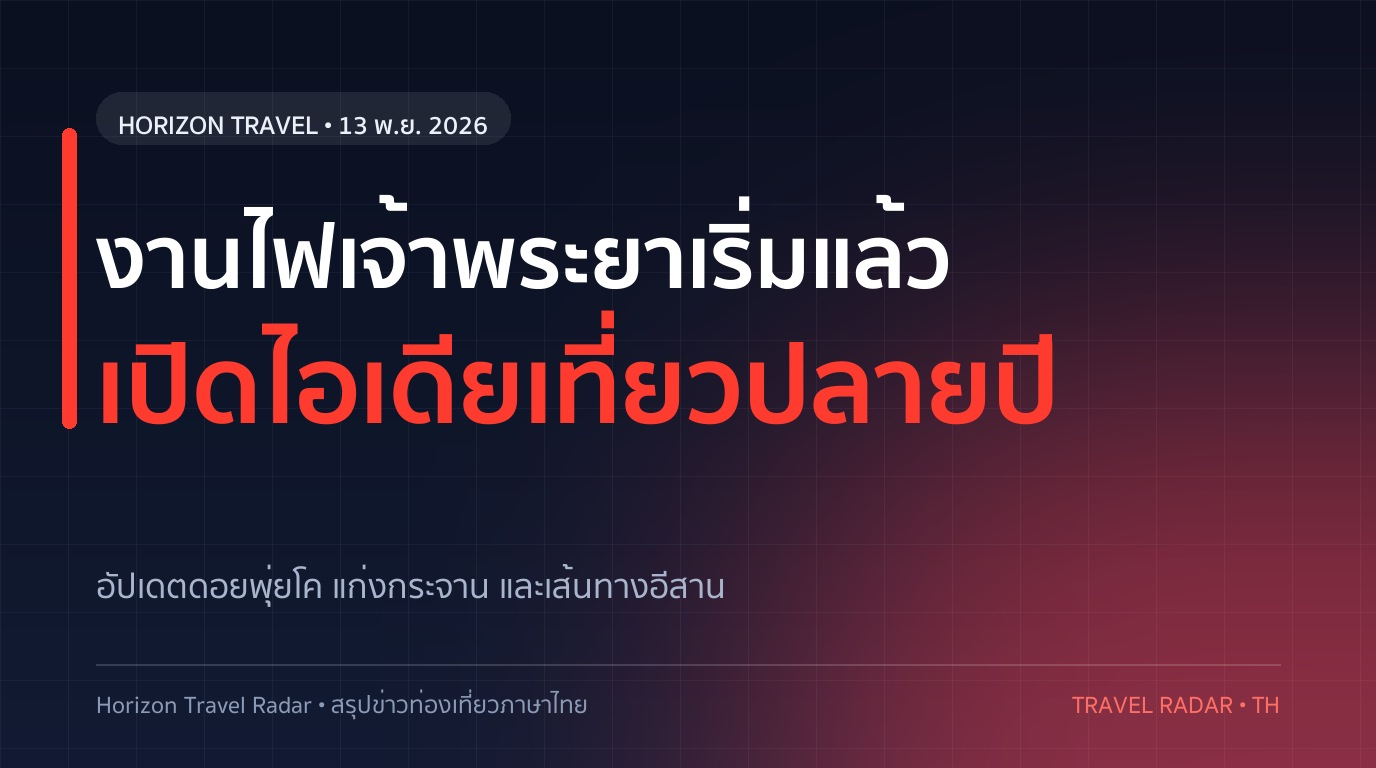
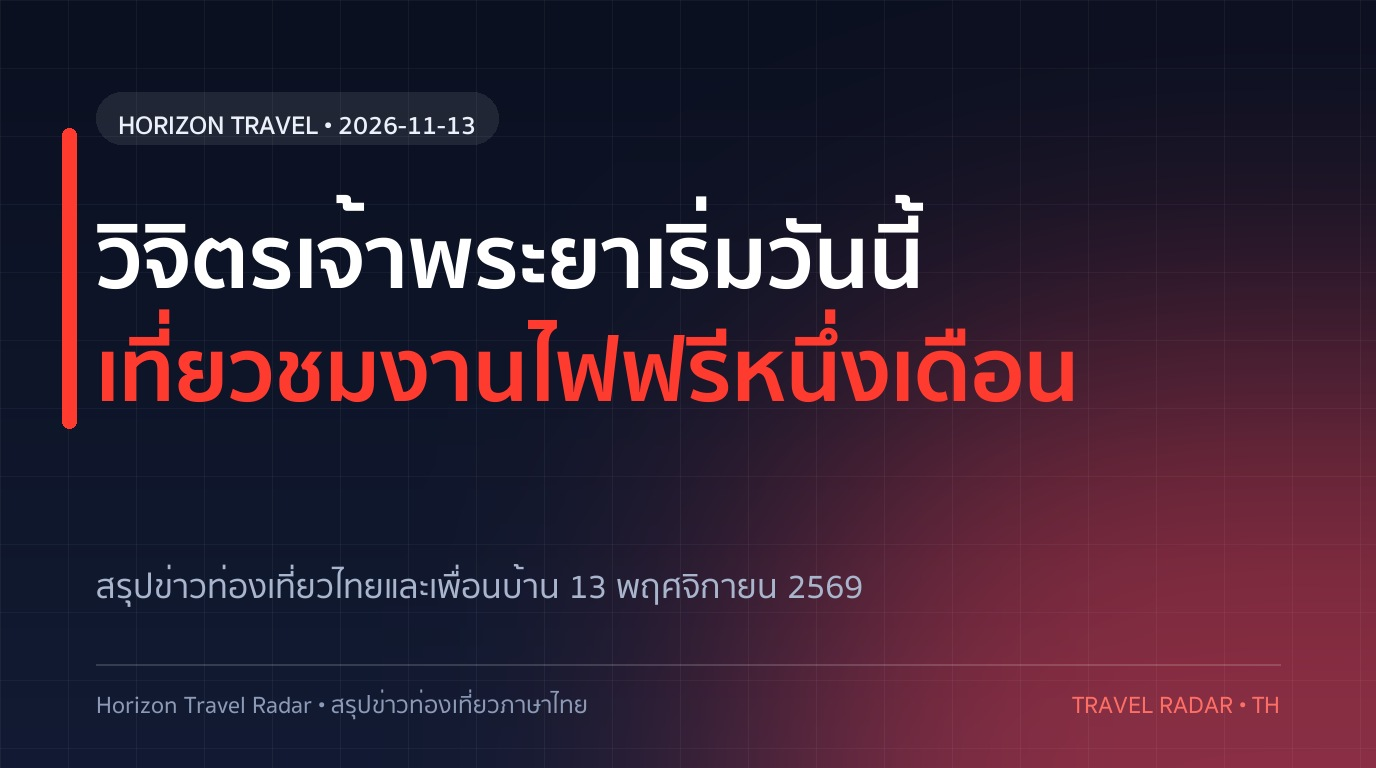
radar: 2026-11-13

diff --git a/docs/2026-11-13.html b/docs/2026-11-13.html
@@ -2,9 +2,9 @@
 <html lang="th"><head>
 <meta charset="utf-8">
 <meta name="viewport" content="width=device-width,initial-scale=1">
-<title>Horizon Daily — 2026-11-13</title>
+<title>บรีฟท่องเที่ยวประจำวันที่ 13 พฤศจิกายน 2569</title>
 <meta name="description" content="Horizon AI News Radar — สรุปข่าว AI/เทคโนโลยี/การเงิน ภาษาไทยรายวัน">
-<meta property="og:title" content="Horizon Daily — 2026-11-13">
+<meta property="og:title" content="บรีฟท่องเที่ยวประจำวันที่ 13 พฤศจิกายน 2569">
 <meta property="og:description" content="สรุปข่าว AI/Tech/Finance ภาษาไทยรายวัน">
 <meta property="og:image" content="https://tstevy3a.github.io/horizon-travel-radar/img/cover-2026-11-13.jpg">
 <link rel="stylesheet" href="assets/style.css">
@@ -13,49 +13,59 @@
   <a href="index.html" style="color:#fff;font-weight:700;font-size:16px">Horizon Travel Radar</a>
   <span class="badge">รายวัน</span>
 </header>
-<h1>Horizon Daily — 2026-11-13</h1>
+<h1>บรีฟท่องเที่ยวประจำวันที่ 13 พฤศจิกายน 2569</h1>
 <p class="meta">เผยแพร่ 2026-11-13</p>
 <img class="cover" src="img/cover-2026-11-13.jpg" alt="ภาพปกข่าว 2026-11-13">
-<article><p>🇹🇭 ไทยและเพื่อนบ้าน</p>
-<h3>วิจิตรเจ้าพระยา 2026 เปิดงานแสงสีริมแม่น้ำ</h3>
-<p><a href="https://www.tatnews.org/2026/11/vijit-chao-phraya-2026-brings-a-month-long-spectacle-of-light-and-imagination-to-bangkoks-riverfront/">ที่มา: TAT Newsroom</a>
-- จัดวันที่ 13 พฤศจิกายน–13 ธันวาคม 2026 เข้าชมฟรี
-- มีจุดจัดแสดง 19 แห่งและงานไฟลอยน้ำ พร้อมการแสดงแสงสี โดรน พลุ และวัฒนธรรม
-ทำไมน่าสนใจ: มีช่วงเวลาจัดงานและจุดจัดแสดงชัดเจนสำหรับวางแผนเที่ยวกรุงเทพฯ ยามค่ำคืน</p>
-<h3>แม่ฮ่องสอนเปิดฤดูเที่ยวดอยพุ่ยโค</h3>
-<p><a href="https://news.google.com/rss/articles/CBMiU0FVX3lxTE9xWWVNSWFLTmhRMjFXa0YzdU9feWRWTk5XZkJLQ2gwVVdBMlNyaEZMaXJKY1B5R3RuM09iNnhjZ2ozemppWWltWENEd1hiNTRteGs4?oc=5">ที่มา: เดลินิวส์</a>
-- ผู้ว่าฯ แม่ฮ่องสอนเปิดฤดูกาลท่องเที่ยวดอยพุ่ยโค
-- จุดเด่นที่ประชาสัมพันธ์คือทะเลหมอก 360 องศา
-ทำไมน่าสนใจ: เป็นอีกจุดหมายสำหรับผู้กำลังหาไอเดียเที่ยวทะเลหมอก</p>
-<h3>แก่งกระจานเตรียมจัดเทศกาลกินปลา พาเที่ยว</h3>
-<p><a href="https://news.google.com/rss/articles/CBMiU0FVX3lxTE9zWEw2MEl3bFRyUUw5WjROam9yVDNpYlJTZXE1SWhpZXJhVjBoOW1HZW9vNW1Zd01Yc3BNNWRTUDVtemNCZVNKdUJCZWc2VVpJRmRZ?oc=5">ที่มา: เดลินิวส์</a>
-- เพชรบุรีเตรียมจัดเทศกาล “กินปลา พาเที่ยวแก่งกระจาน” ครั้งที่ 21
-- กำหนดจัดวันที่ 4–13 ธันวาคม
-ทำไมน่าสนใจ: วันที่จัดงานช่วยให้วางทริปแก่งกระจานล่วงหน้าได้</p>
-<h3>เปิด 9 เส้นทางเที่ยวอีสาน</h3>
-<p><a href="https://news.google.com/rss/articles/CBMiaEFVX3lxTE1uOVllVkNpdHZjREpSWHU4RGRWdlRpOEpfc1JZNm9MTmFzY1hxUm04cFNPWnJWWGVYdVZucXBZazN5Z1RLX0lCdEhpMnlwYW9FdjAyc0N2U2xuUF9HbWZ0SE5uZnlTdlpG?oc=5">ที่มา: มติชนออนไลน์</a>
-- มีการเปิดตัว 9 เส้นทางท่องเที่ยวในภาคอีสาน
-- ข่าวเชื่อมเส้นทางเหล่านี้กับงานพืชสวนโลกอุดร
-ทำไมน่าสนใจ: เพิ่มตัวเลือกสำหรับผู้กำลังมองหาเส้นทางเที่ยวอีสาน</p>
-<h3>นาทมชูแหล่งเที่ยวศรัทธาและชุมชน</h3>
-<p><a href="https://news.google.com/rss/articles/CBMiWEFVX3lxTE1mNmRpdHdGVE56QWtwaWNMTGtKdm5ScHhCUkJkSDI3Y1dSWFRBUFg5WXhMUlowMmlZTnpoY0trTWE3bTZOaHJ0RlI4RjdKM1ZFME51enJsbzI?oc=5">ที่มา: บ้านเมือง</a>
-- อำเภอนาทมประชาสัมพันธ์พระพุทธมิ่งเมืองและสิมโบราณล้านช้าง
-- อีกจุดที่กล่าวถึงคือต้นมะม่วงร้อยปี
-ทำไมน่าสนใจ: เป็นไอเดียเที่ยวอำเภอที่หลายคนอาจยังไม่คุ้นชื่อ</p>
-<p>✈ สายการบิน/เส้นทาง/วีซ่า</p>
-<p>ไม่มีข่าวในหมวดนี้จากรายการที่ได้รับ</p>
-<p>🔥 ไวรัลและชุมชนนักเดินทาง</p>
-<h3>ชุมชนนักเที่ยวถาม: เดินทางข้ามเมืองในไทยอย่างไรให้คุ้มเวลาและเงิน</h3>
-<p><a href="https://www.reddit.com/r/ThailandTourism/comments/1xuy0tl/getting_around_thailand_how_do_you_avoid_wasting/">ที่มา: Reddit r/ThailandTourism</a>
-- ผู้ตั้งกระทู้ถามว่าควรเลือกบิน รถไฟข้ามคืน รถบัส หรือรถตู้เมื่อเดินทางในไทย
-- อีกคำถามคือจะเลือกเรือเฟอร์รีหรือสปีดโบตอย่างไรเมื่อเที่ยวข้ามเกาะ
-ทำไมน่าสนใจ: เป็นโจทย์วางแผนเดินทางที่นักเที่ยวอิสระต้องชั่งทั้งเวลาและค่าใช้จ่าย</p>
-<p>🧳 ฮาวทู/งบ/แพ็กของ</p>
-<h3>เตรียมเที่ยวทะเลกระบี่: จับตาการตรวจอุทยานช่วงไฮซีซัน</h3>
-<p><a href="https://news.google.com/rss/articles/CBMiZkFVX3lxTE1hVFhaeTJLMHRDTmVkZG5qYTJqNFJ3SlhOemNzOGhCc1M5VjRqSTRvc2xKVWhTeVNTcVd4OXl5cmtodEJvUUVCejZjNWw4enktY3UxWGVfTVp1X0JYcUNJbkFqZzB2QQ?oc=5">ที่มา: ไทยโพสต์</a>
-- มีคำสั่งให้กรมอุทยานฯ ตรวจเข้มอุทยาน 2 แห่งในกระบี่เพื่อรับช่วงไฮซีซัน
-- ประเด็นที่ระบุครอบคลุมความปลอดภัยทางทะเล ขยะ และจำนวนนักท่องเที่ยว
-ทำไมน่าสนใจ: ผู้วางแผนเที่ยวทะเลกระบี่ควรติดตามข้อมูลของอุทยานก่อนเดินทาง</p></article>
+<article><h2>🇹🇭 ไทยและเพื่อนบ้าน</h2>
+<h3>วิจิตรเจ้าพระยา 2026 เริ่มวันนี้ ชมงานแสงริมแม่น้ำฟรีหนึ่งเดือน</h3>
+<p><strong>แหล่งข่าว:</strong> <a href="https://www.tatnews.org/2026/11/vijit-chao-phraya-2026-brings-a-month-long-spectacle-of-light-and-imagination-to-bangkoks-riverfront/">TAT Newsroom</a>
+- จัดระหว่าง 13 พฤศจิกายน–13 ธันวาคม 2569 ริมแม่น้ำเจ้าพระยาในกรุงเทพฯ
+- มีการแสดงแสงสี ภาพฉายบนอาคาร โดรน พลุ และการแสดงวัฒนธรรม
+- ครอบคลุม 19 จุด พร้อมงานไฟลอยน้ำอีกหนึ่งจุด และเข้าชมฟรี
+<strong>ทำไมสำคัญ:</strong> เป็นตัวเลือกเที่ยวกรุงเทพฯ ยามค่ำคืนที่เริ่มได้ตั้งแต่วันนี้โดยไม่เสียค่าเข้าชม</p>
+<h3>Eurovision Asia กับคำถามว่าอีเวนต์ใหญ่ช่วยท่องเที่ยวกรุงเทพฯ แค่ไหน</h3>
+<p><strong>แหล่งข่าว:</strong> <a href="https://skift.com/2026/11/12/one-night-in-bangkok-eurovision-asia-tests-thailands-bet-on-events/">Skift</a>
+- ไทยหวังใช้อีเวนต์ช่วยชดเชยจำนวนนักท่องเที่ยวขาเข้าที่ลดลง ตามการรายงานของ Skift
+- Skift ระบุว่าข้อมูลเบื้องต้นชี้ว่า Eurovision Asia เกิดขึ้นในช่วงที่การท่องเที่ยวกรุงเทพฯ กำลังขยับขึ้นตามฤดูกาล ยังไม่ชัดว่าอีเวนต์เป็นตัวผลักดัน
+- บทวิเคราะห์มองว่าอีเวนต์คืนเดียวอาจส่งผลจำกัด แต่ปฏิทินงานที่จัดต่อเนื่องอาจมีน้ำหนักมากกว่า
+<strong>ทำไมสำคัญ:</strong> ชวนมองผลของงานใหญ่ต่อการท่องเที่ยวด้วยข้อมูล แทนการนับกระแสเพียงคืนเดียว</p>
+<h3>เปิดภาพแรก Waldorf Astoria Kuala Lumpur หลังเปิดให้บริการ</h3>
+<p><strong>แหล่งข่าว:</strong> <a href="https://thepointsguy.com/hotel/reviews/waldorf-astoria-kuala-lumpur/">The Points Guy</a>
+- โรงแรมเปิดเมื่อ 30 ตุลาคม 2569 และผู้เขียนเข้าพักภายในหนึ่งสัปดาห์หลังเปิด
+- บทความเป็นการพาชมและเล่าประสบการณ์ช่วงแรก ไม่ใช่รีวิวฉบับเต็ม
+- ขณะเข้าพัก ร้านอาหารบางแห่งและสปายังไม่เปิดให้บริการ
+<strong>ทำไมสำคัญ:</strong> คนวางแผนพักโรงแรมใหม่ในกัวลาลัมเปอร์จะได้เห็นภาพช่วงเปิดตัว พร้อมรู้ว่าบริการบางส่วนยังไม่พร้อม</p>
+<h2>🔥 ไวรัลและชุมชนนักเดินทาง</h2>
+<h3>ผู้เดินทางโพสต์รอตรวจคนเข้าเมือง 65 นาทีเมื่อ 13 พฤศจิกายน</h3>
+<p><strong>แหล่งข่าว:</strong> <a href="https://www.reddit.com/r/ThailandTourism/comments/1xv0k3v/airport_immigration_today_1311/">โพสต์ใน r/ThailandTourism</a>
+- ผู้โพสต์ระบุว่าเพิ่งเดินทางมาถึงและรอคิวตรวจคนเข้าเมือง 65 นาทีในช่องที่ไม่ใช้ E-Gate
+- ผู้โพสต์เล่าว่าเจ้าหน้าที่จุดหนึ่งไม่ให้ใช้ E-Gate และบอกว่าให้เฉพาะคนไทยใช้ในวันนั้น
+- ข้อมูลนี้เป็นประสบการณ์จากผู้เดินทางรายเดียว โดยโพสต์ไม่ได้ระบุสนามบิน
+<strong>ทำไมสำคัญ:</strong> เป็นสัญญาณให้เผื่อเวลาเดินทาง แต่ยังใช้สรุปสภาพคิวหรือกติกา E-Gate ทุกจุดไม่ได้</p>
+<h3>ลิสต์ 27 ที่เที่ยวปี 2027 ชวนเริ่มเก็บไอเดียทริป</h3>
+<p><strong>แหล่งข่าว:</strong> <a href="https://www.cntraveler.com/story/27-best-places-to-go-in-2027">Condé Nast Traveler</a>
+- Condé Nast Traveler เผยรายชื่อ 27 สถานที่น่าไปในปี 2027
+- คำโปรยของบทความชูเส้นทางเดินป่า เมืองน่าเที่ยว และชายหาด
+<strong>ทำไมสำคัญ:</strong> เป็นจุดเริ่มต้นหาแรงบันดาลใจสำหรับคนที่กำลังคิดทริปปีหน้า</p>
+<h3>อายุ 19 เที่ยวไทยสนุกไหม หากสนใจชีวิตกลางคืนด้วย</h3>
+<p><strong>แหล่งข่าว:</strong> <a href="https://www.reddit.com/r/ThailandTourism/comments/1xv0mwa/is_thailand_worth_visiting_at_19_drinking_age/">โพสต์ใน r/ThailandTourism</a>
+- ผู้โพสต์วางแผนเที่ยวไทยกับเพื่อนช่วงมกราคมหรือกุมภาพันธ์ โดยทุกคนอายุ 19 ปี
+- สิ่งที่กลุ่มสนใจมีทั้งชายหาด เที่ยวเกาะ ตลาด อาหาร และการออกไปเที่ยวตอนค่ำ
+- ผู้โพสต์ถามเรื่องการตรวจบัตรและการดื่มในบาร์หรือบีชคลับ โดยระบุว่าตนเข้าใจว่าอายุดื่มตามกฎหมายคือ 20 ปี
+<strong>ทำไมสำคัญ:</strong> คำถามนี้สะท้อนว่าคนเที่ยววัย 19 ปีต้องคิดเรื่องกิจกรรมยามค่ำคืนควบคู่กับแผนเที่ยวกลางวัน</p>
+<h3>อยากหนีฝนไปเกาะไทย แต่ยังไม่มีคำตอบว่าเกาะไหนแดดดี</h3>
+<p><strong>แหล่งข่าว:</strong> <a href="https://www.reddit.com/r/ThailandTourism/comments/1xuyj2e/thai_island_with_best_weather_right_now/">โพสต์ใน r/ThailandTourism</a>
+- ผู้โพสต์อยู่ในลาวและเล่าว่าเจอสภาพอากาศไม่ดีที่หลวงพระบางกับวังเวียง
+- เจ้าตัวอยากเปลี่ยนแผนมาพักริมทะเลในไทยสักสองสามวัน และถามหาเกาะที่อากาศดีในช่วงนี้
+- ผู้โพสต์อยากได้จุดหมายที่บินจากเวียงจันทน์หรือกรุงเทพฯ ได้โดยใช้เวลาไม่นาน; โพสต์ยังไม่มีข้อมูลยืนยันว่าเกาะใดอากาศดี
+<strong>ทำไมสำคัญ:</strong> แผนเที่ยวเกาะแบบตัดสินใจใกล้วันเดินทางขึ้นอยู่กับสภาพอากาศจริงของแต่ละจุดหมาย</p>
+<h2>🧳 ฮาวทู/งบ/แพ็กของ</h2>
+<h3>เที่ยวไทยข้ามเมืองอย่างไรให้ไม่เสียทั้งเวลาและเงิน</h3>
+<p><strong>แหล่งข่าว:</strong> <a href="https://www.reddit.com/r/ThailandTourism/comments/1xuy0tl/getting_around_thailand_how_do_you_avoid_wasting/">โพสต์ใน r/ThailandTourism</a>
+- ผู้โพสต์ถามว่าจะเลือกบินหรือขึ้นรถไฟกลางคืนเมื่อเดินทางระหว่างเมือง
+- ยังตั้งคำถามว่ารถบัสและรถตู้ประหยัดคุ้มกับเวลาที่ใช้หรือไม่
+- สำหรับทริปเที่ยวเกาะ ผู้โพสต์อยากรู้วิธีเลือกเรือเฟอร์รีหรือสปีดโบต
+<strong>ทำไมสำคัญ:</strong> เป็นโจทย์ที่คนเที่ยวเองต้องชั่งทั้งค่าเดินทางและเวลาที่หายไประหว่างทาง</p></article>
 <footer>
   สร้างอัตโนมัติจาก Horizon AI News Radar · <a href="https://tstevy3a.github.io/horizon-travel-radar/">หน้าแรก</a><br>
   แหล่งข่าว: Hacker News, TechCrunch, The Verge, Ars Technica, CNBC, MarketWatch, Blognone

diff --git a/docs/index.html b/docs/index.html
@@ -13,7 +13,7 @@
   <a href="index.html" style="color:#fff;font-weight:700;font-size:16px">Horizon Travel Radar</a>
   <span class="badge">รายวัน</span>
 </header>
-<h1>Horizon Daily — 2026-11-13</h1><p class="meta">ฉบับล่าสุด 2026-11-13</p><a class="card" href="2026-11-13.html"><div class="t">อ่านฉบับเต็ม →</div></a><h2 style='font-size:19px;margin-top:34px'>ย้อนหลัง</h2><a class="card" href="2026-11-13.html"><div class="d">2026-11-13</div><div class="t">Horizon Daily — 2026-11-13</div><div class="s"></div></a>
+<h1>บรีฟท่องเที่ยวประจำวันที่ 13 พฤศจิกายน 2569</h1><p class="meta">ฉบับล่าสุด 2026-11-13</p><a class="card" href="2026-11-13.html"><div class="t">อ่านฉบับเต็ม →</div></a><h2 style='font-size:19px;margin-top:34px'>ย้อนหลัง</h2><a class="card" href="2026-11-13.html"><div class="d">2026-11-13</div><div class="t">บรีฟท่องเที่ยวประจำวันที่ 13 พฤศจิกายน 2569</div><div class="s"></div></a>
 <footer>
   สร้างอัตโนมัติจาก Horizon AI News Radar · <a href="https://tstevy3a.github.io/horizon-travel-radar/">หน้าแรก</a><br>
   แหล่งข่าว: Hacker News, TechCrunch, The Verge, Ars Technica, CNBC, MarketWatch, Blognone

diff --git a/README.md b/README.md
@@ -2,4 +2,4 @@
 
 สรุปข่าวภาษาไทยรายวัน
 
-- [2026-11-13 — Horizon Daily — 2026-11-13](https://tstevy3a.github.io/horizon-travel-radar/2026-11-13.html)
+- [2026-11-13 — บรีฟท่องเที่ยวประจำวันที่ 13 พฤศจิกายน 2569](https://tstevy3a.github.io/horizon-travel-radar/2026-11-13.html)
